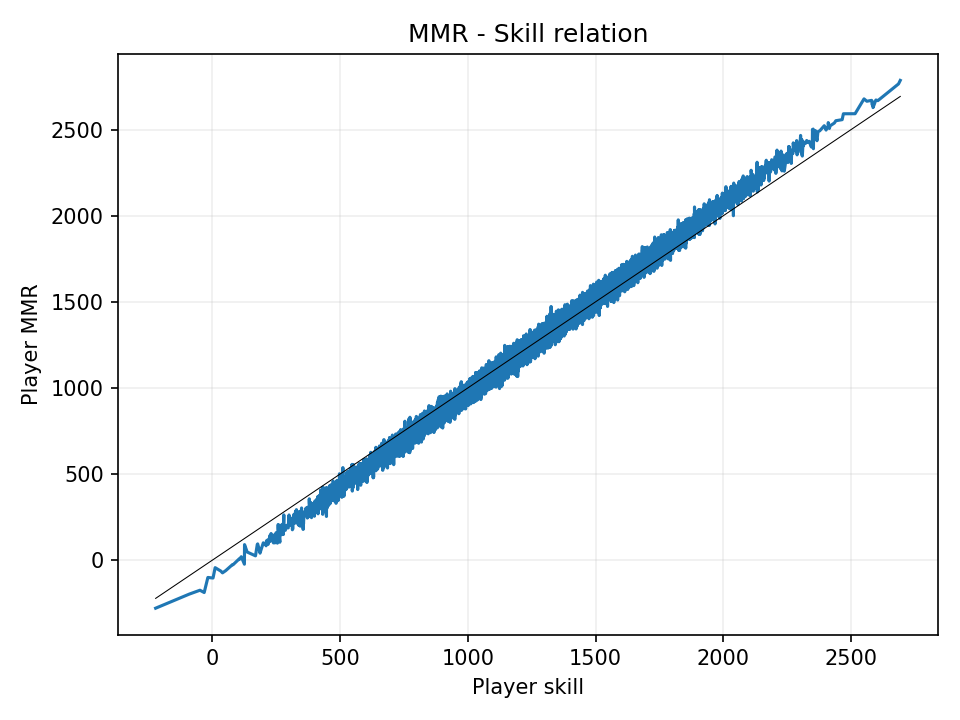
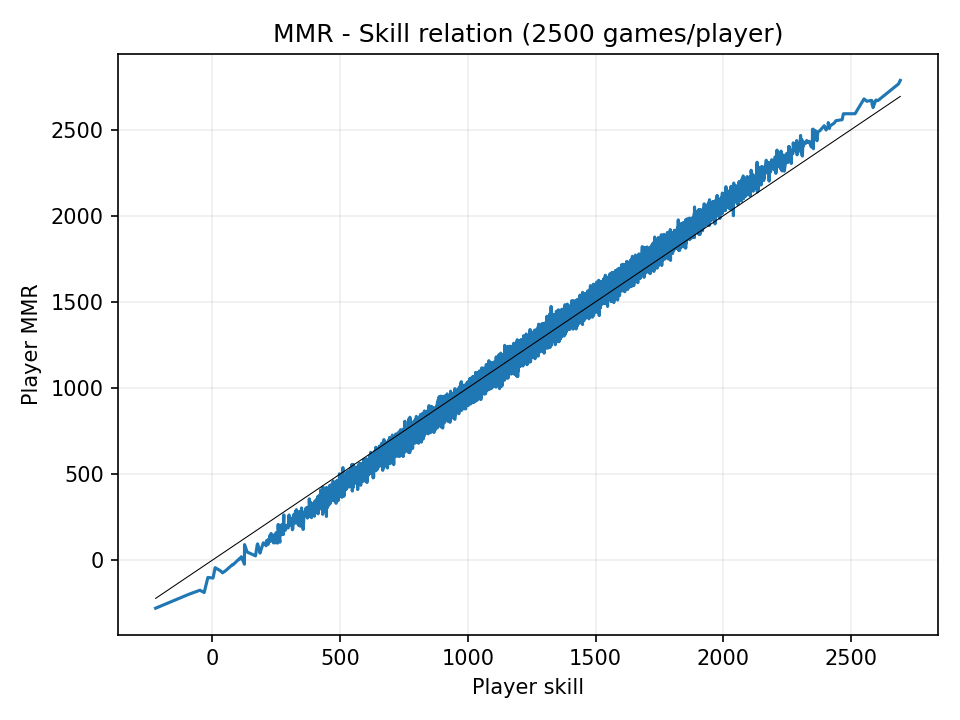
...

Changed region(s): [[0.375, 0.0306, 0.8125, 0.0611], [0.2812, 0.0306, 0.3438, 0.0611]]

diff --git a/analyse.py b/analyse.py
@@ -10,7 +10,9 @@ import psimulation
 
 ### RUN SIMULATION
 start = time.time()
-data = psimulation.run_simulation(20000, 50000000)
+GAMES = 50000000
+PLAYERS = 20000
+data = psimulation.run_simulation(PLAYERS, GAMES)
 prediction_differences = np.array(psimulation.export_prediction_diff())
 print(f"Simulation finished in {time.time()-start:.3f} seconds")
 
@@ -80,7 +82,7 @@ def plot_mmr_history(DATAVALUES=6):
     for i in range(3):
         ax[0].plot(range(len(extremes[i]['mmr_history'])),
                    extremes[i]['mmr_history'],
-                   label=f"Player skill: {extremes[i]['skill']}")
+                   label=f"Player skill: {extremes[i]['skill']:.2f}")
         chances = [
             chance_skill(extremes[i]['skill'] - opponent)
             for opponent in extremes[i]['opponent_history']
@@ -196,7 +198,7 @@ def plot_other():
              [min(skills), max(skills)],
              color="black",
              linewidth=0.5)
-    plt.title("MMR - Skill relation")
+    plt.title(f"MMR - Skill relation ({GAMES/PLAYERS:.0f} games/player)")
     plt.xlabel("Player skill")
     plt.ylabel("Player MMR")
     plt.grid(alpha=0.2)

diff --git a/main.cpp b/main.cpp
@@ -1,12 +1,11 @@
 #include <iostream>
 #include <string>
 #include <vector>
-// #include <cstdlib>
 #include <chrono>
 #include <random>
 #include <cmath>
 
-#include "mutils.h" // adds "print" and "str" fuction templates
+#include "mutils.h" // random helper functions
 
 std::vector<double> prediction_difference;
 
@@ -20,7 +19,7 @@ public:
     double skill;
     // MMR assigned by the matchmaker
     double mmr = 2820 / 2.2;
-    // Vector of opponent skills. It's used to define the matchmaker accuracy.
+    // Vector of opponent skills.
     std::vector<double> opponent_history;
     // MMR history
     std::vector<double> mmr_history;
